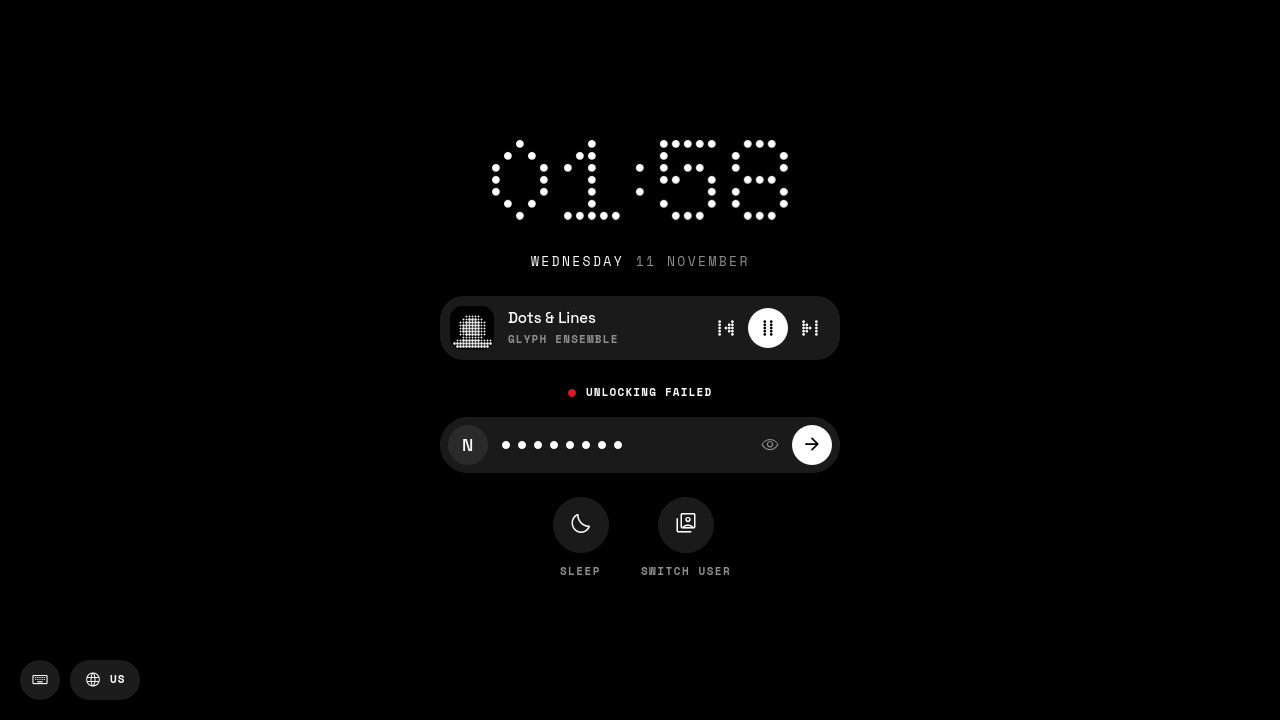
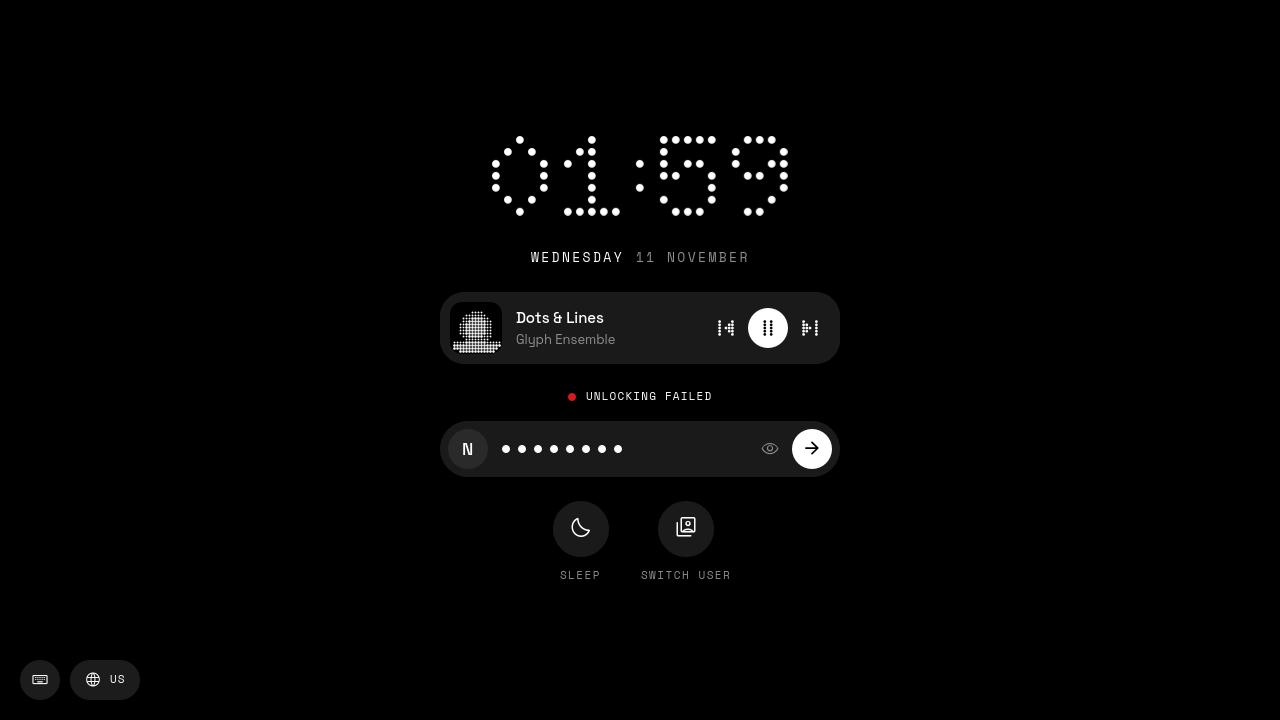
lockscreen: round 6

diff --git a/plasma/lookandfeel/org.nothing.desktop/contents/lockscreen/MediaCard.qml b/plasma/lookandfeel/org.nothing.desktop/contents/lockscreen/MediaCard.qml
@@ -21,20 +21,20 @@ Rectangle {
     signal next()
 
     implicitWidth: 380
-    implicitHeight: 64
+    implicitHeight: 72
     radius: 24
     color: "#1a1a1a"
 
     // Artwork as a halftone dot dither on a black tile, or a dot-matrix note when there is none.
     Rectangle {
         id: artBox
-        x: 10; width: 44; height: 44
+        x: 10; width: 52; height: 52
         anchors.verticalCenter: parent.verticalCenter
         radius: 12
         color: "#000000"
         DotGlyph {
             anchors.centerIn: parent
-            width: 26; height: 26
+            width: 30; height: 30
             visible: !art.ready
             icon: "note"
             dimColor: "transparent"
@@ -67,12 +67,15 @@ Rectangle {
             font.family: Theme.sans; font.pixelSize: 15; font.weight: Font.Medium
             textFormat: Text.PlainText
         }
-        Label {
+        // sentence case as delivered by MPRIS, like the control center
+        Text {
             width: parent.width
             text: card.artist
             elide: Text.ElideRight
             textFormat: Text.PlainText
             visible: text !== ""
+            color: Theme.fg2
+            font.family: Theme.sans; font.pixelSize: 13; font.weight: Font.Normal
         }
     }
 

diff --git a/plasma/lookandfeel/org.nothing.desktop/contents/lockscreen/MediaControls.qml b/plasma/lookandfeel/org.nothing.desktop/contents/lockscreen/MediaControls.qml
@@ -15,7 +15,7 @@ Item {
 
     readonly property bool hasMedia: instantiator.count > 0
     visible: hasMedia
-    implicitHeight: 64
+    implicitHeight: 72
     implicitWidth: 380
 
     Repeater {
